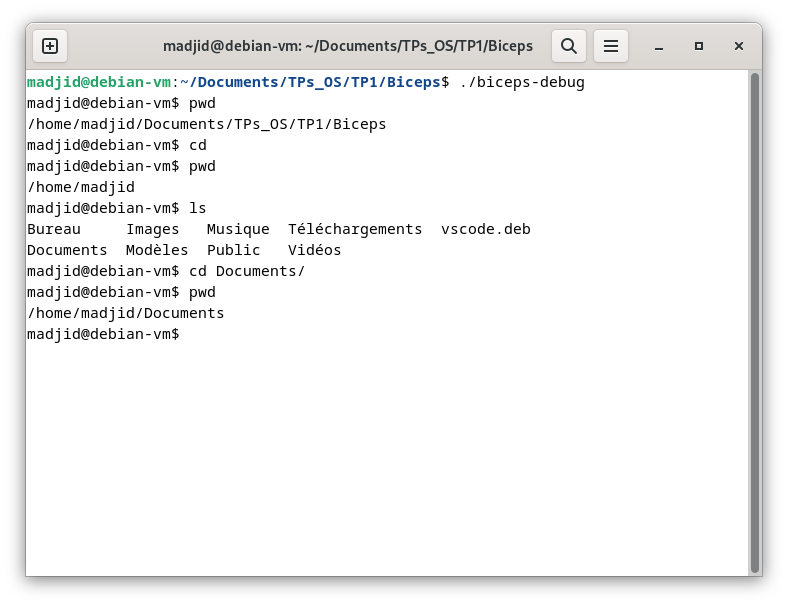
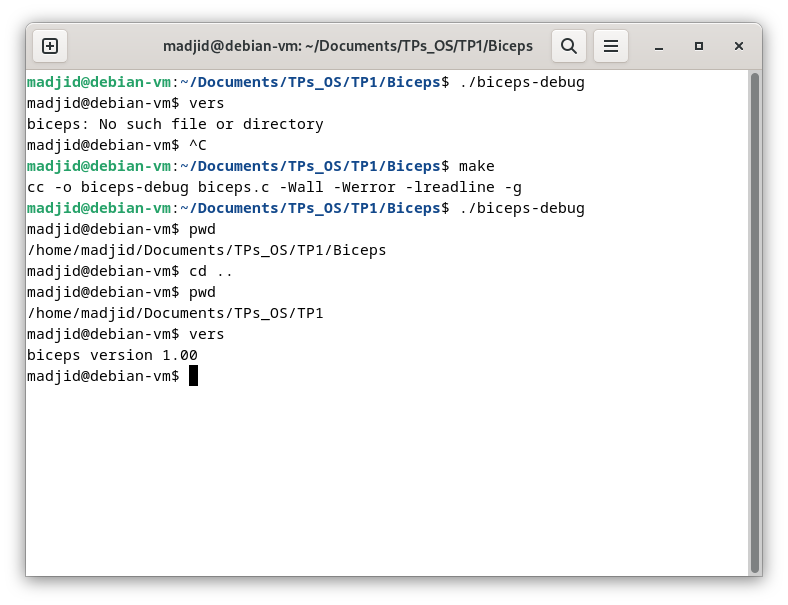
commit 12: etape 4.1 complete

diff --git a/TP1/Biceps/biceps.c b/TP1/Biceps/biceps.c
@@ -132,10 +132,30 @@ int changeDir(int n, char **p) {
     return 0;
 }
 
+/* Commande interne 'pwd' */
+int afficheDir(int n, char **p) {
+    char cwd[1024];
+    if (getcwd(cwd, sizeof(cwd)) != NULL) {
+        printf("%s\n", cwd);
+    } else {
+        perror("biceps: pwd");
+        return 1;
+    }
+    return 0;
+}
+
+/* Commande interne 'vers' */
+int version(int n, char **p) {
+    printf("biceps version 1.00\n");
+    return 0;
+}
+
 /* Initialisation du tableau des commandes */
 void majComInt(void) {
     ajouteCom("exit", Sortie);
     ajouteCom("cd", changeDir);
+    ajouteCom("pwd", afficheDir);
+    ajouteCom("vers", version);
 }
 
 int main(int argc, char *argv[]) {
